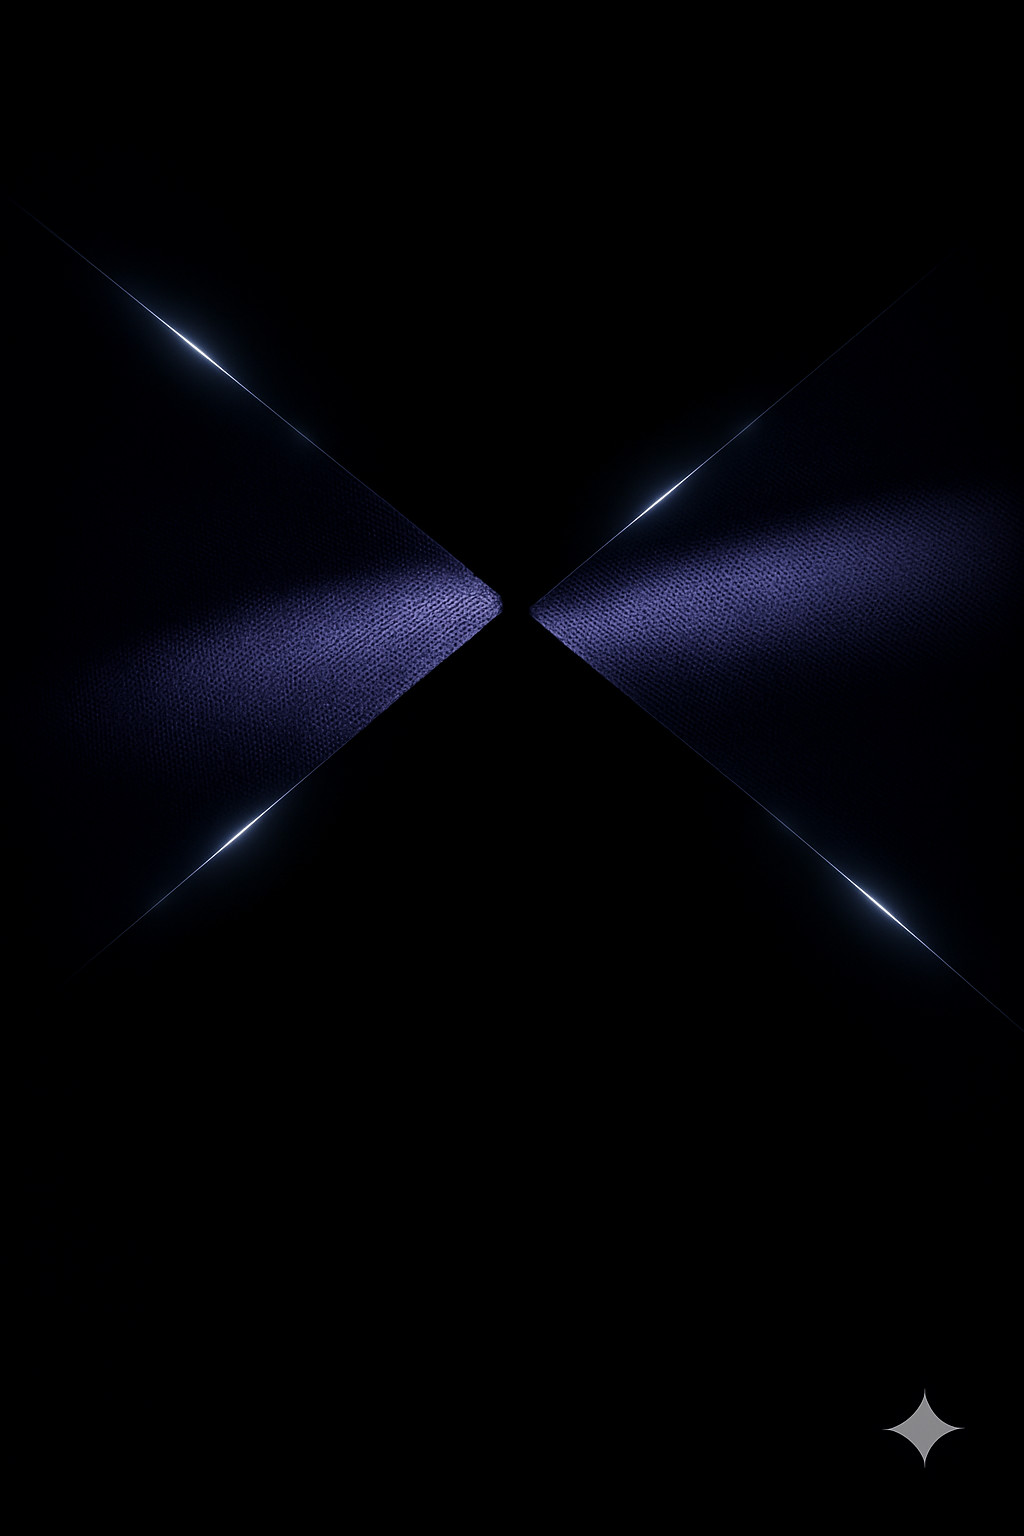
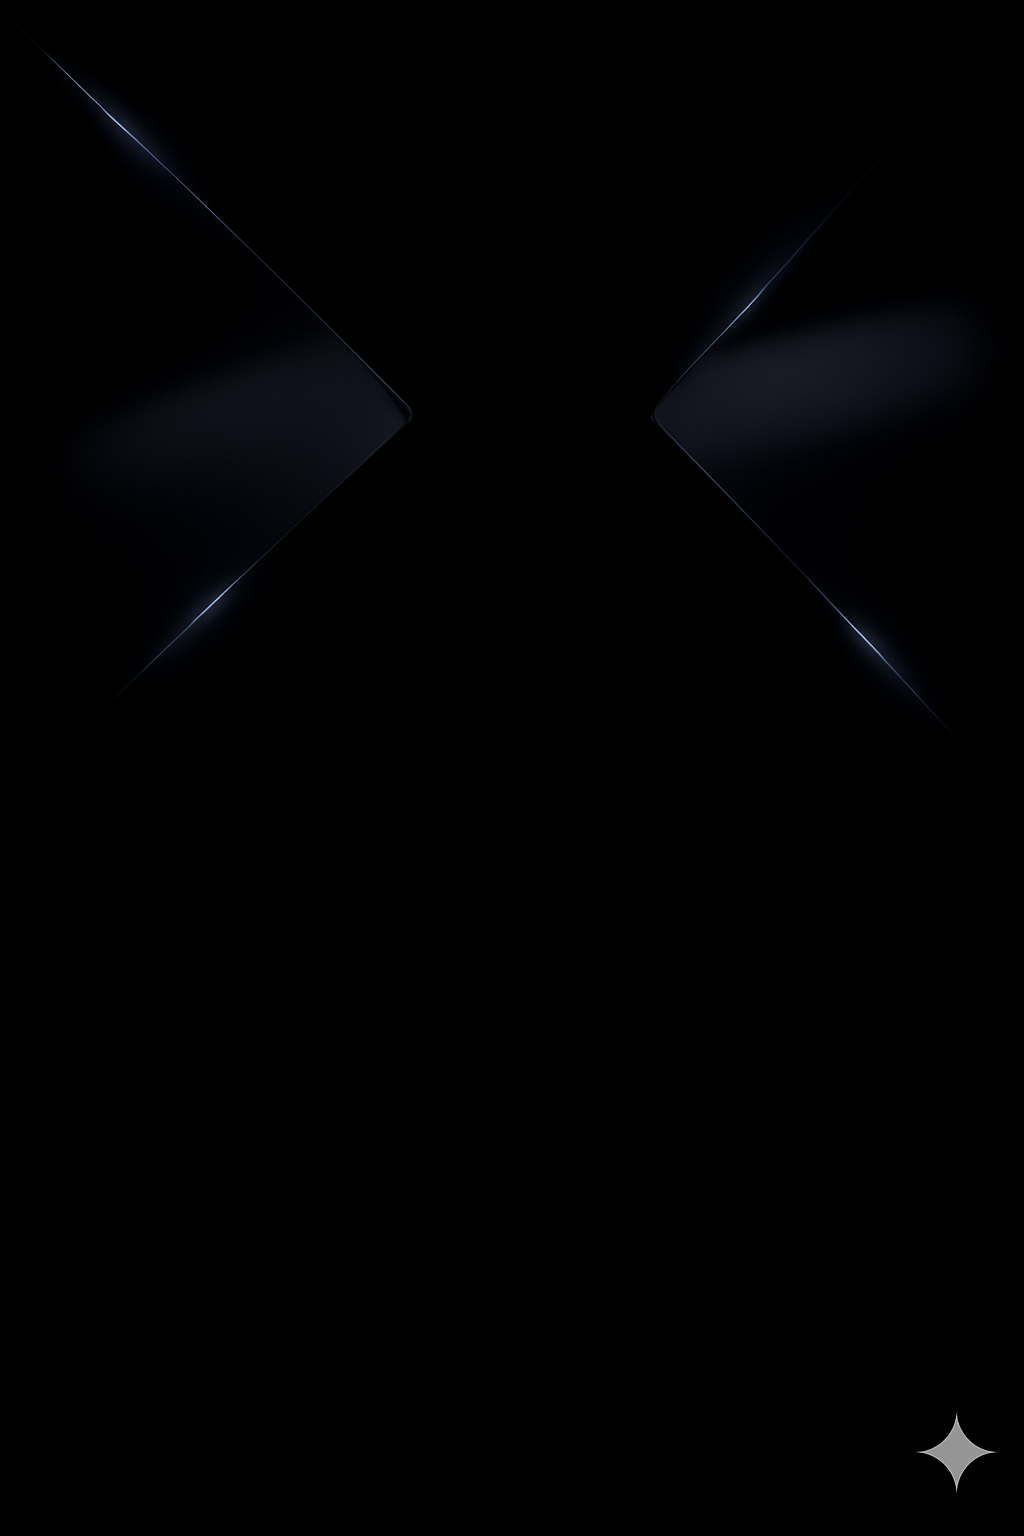
Changes

diff --git a/src/components/Hero.tsx b/src/components/Hero.tsx
@@ -13,14 +13,14 @@ export default function Hero() {
     >
       {/* Mobile background */}
       <div 
-        className="absolute inset-0 z-0 bg-cover bg-[center_30%] bg-no-repeat md:hidden"
+        className="absolute inset-0 z-0 bg-cover bg-[center_top] bg-no-repeat md:hidden"
         style={{
           backgroundImage: `url(${heroWallpaperMobile})`,
         }}
       />
       {/* Desktop background */}
       <div 
-        className="absolute inset-0 z-0 bg-cover bg-no-repeat hidden md:block md:bg-[center_35%] lg:bg-[center_20%]"
+        className="absolute inset-0 z-0 bg-cover bg-no-repeat hidden md:block bg-[center_top]"
         style={{
           backgroundImage: `url(${heroWallpaper})`,
         }}
